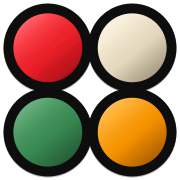
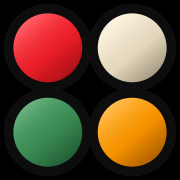
Give every page a matching social preview card, and fill in the missing tags
Only the homepage had og:image:alt and twitter:image; the other seven pages
were missing both, and four of them (dashboard, software, coinkite, contact)
were still pointing at whitepaper.png, a 1200x750 image with no share-card
purpose. guides and exchanges were serving portrait images (1600x2400 and
2400x3600) as 1.91:1 social cards, which center-crop hard -- both were showing
a narrow vertical sliver of themselves. exchanges' image was also a .webp,
which X's scraper has long handled unreliably.

All eight now carry a complete, identical set of og:image / og:image:width /
og:image:height / og:image:alt / twitter:image / twitter:image:alt. devices.html
keeps its own image (signing-device-circuit.jpeg, landscape, crops fine) and
just gained the tags it was missing; the other seven now share one card.

That card: the four-circle mark and "SELF CUSTODY.CA" wordmark, one line,
inside a solid white rounded border, on black -- the same lockup and colours
as the site's own header brand, at card scale. Not a screenshot of the hero:
it needed to work as a small feed thumbnail on its own, at any crop a platform
decides to apply, without depending on the hero's video or the buttons beside
it. PNG master kept on disk, gitignored; the site references the JPEG export.

Changed region(s): [[0.0, 0.0, 1.0, 1.0], [0.3333, 0.3333, 0.6667, 0.6667]]

diff --git a/docs/dashboard.html b/docs/dashboard.html
@@ -13,12 +13,16 @@
   <meta property="og:title" content="Live Bitcoin Dashboard | Self Custody Canada">
   <meta property="og:description" content="Live Bitcoin dashboard: price in CAD and USD, sats per dollar, block height, fee rates, network hashrate, and the Fear &amp; Greed index.">
   <meta property="og:url" content="https://selfcustody.ca/dashboard.html">
-  <meta property="og:image" content="https://selfcustody.ca/assets/img/whitepaper.png">
+  <meta property="og:image" content="https://selfcustody.ca/assets/img/social-preview.jpg">
   <meta property="og:image:width" content="1200">
-  <meta property="og:image:height" content="750">
+  <meta property="og:image:height" content="630">
+  <meta property="og:image:alt" content="Exit fiat, enter Bitcoin — SelfCustody.ca">
   <meta name="twitter:card" content="summary_large_image">
+  <meta name="twitter:image" content="https://selfcustody.ca/assets/img/social-preview.jpg">
+  <meta name="twitter:image:alt" content="Exit fiat, enter Bitcoin — SelfCustody.ca">
   <link rel="icon" type="image/svg+xml" href="assets/img/self-custody-favicon.svg">
   <link rel="icon" href="assets/img/favicon.png">
+  <link rel="apple-touch-icon" href="assets/img/apple-touch-icon.png">
   <link rel="preconnect" href="https://fonts.googleapis.com">
   <link rel="preconnect" href="https://fonts.gstatic.com" crossorigin>
   <link rel="preconnect" href="https://mempool.space" crossorigin>
@@ -31,6 +35,6 @@
 <body class="site-refresh" data-page="dashboard">
   <div id="site-header"></div><main id="main-content"></main><div id="site-footer"></div>
   <noscript><div class="container py-5"><h1>Dashboard</h1><p>Please enable JavaScript to view live Bitcoin network data.</p></div></noscript>
-  <script src="assets/vendor/bootstrap/js/bootstrap.bundle.min.js"></script><script src="assets/js/site-refresh.js?v=20260812-127"></script>
+  <script src="assets/vendor/bootstrap/js/bootstrap.bundle.min.js"></script><script src="assets/js/site-refresh.js?v=20260812-128"></script>
 </body>
 </html>

diff --git a/docs/exchanges.html b/docs/exchanges.html
@@ -13,12 +13,16 @@
   <meta property="og:title" content="Buying Bitcoin in Canada | Exchange & Broker Comparison">
   <meta property="og:description" content="Compare Canadian bitcoin purchase routes by custody model, CAD funding, trading tools, withdrawal workflow, and fit for self-custody.">
   <meta property="og:url" content="https://selfcustody.ca/exchanges.html">
-  <meta property="og:image" content="https://selfcustody.ca/assets/img/hero-keylock.webp">
-  <meta property="og:image:width" content="2400">
-  <meta property="og:image:height" content="3600">
+  <meta property="og:image" content="https://selfcustody.ca/assets/img/social-preview.jpg">
+  <meta property="og:image:width" content="1200">
+  <meta property="og:image:height" content="630">
+  <meta property="og:image:alt" content="Exit fiat, enter Bitcoin — SelfCustody.ca">
   <meta name="twitter:card" content="summary_large_image">
+  <meta name="twitter:image" content="https://selfcustody.ca/assets/img/social-preview.jpg">
+  <meta name="twitter:image:alt" content="Exit fiat, enter Bitcoin — SelfCustody.ca">
   <link rel="icon" type="image/svg+xml" href="assets/img/self-custody-favicon.svg">
   <link rel="icon" href="assets/img/favicon.png">
+  <link rel="apple-touch-icon" href="assets/img/apple-touch-icon.png">
   <link rel="preconnect" href="https://fonts.googleapis.com">
   <link rel="preconnect" href="https://fonts.gstatic.com" crossorigin>
   <link href="https://fonts.googleapis.com/css2?family=Jost:wght@500;600;700&family=Open+Sans:wght@400;600;700&display=swap" rel="stylesheet">

diff --git a/docs/guides.html b/docs/guides.html
@@ -13,12 +13,16 @@
   <meta property="og:title" content="Guides | Self Custody Canada">
   <meta property="og:description" content="A practical, step-by-step learning path for buying bitcoin, setting up a wallet, withdrawing safely, testing recovery, and maintaining self-custody.">
   <meta property="og:url" content="https://selfcustody.ca/guides.html">
-  <meta property="og:image" content="https://selfcustody.ca/assets/img/education-library.jpeg">
-  <meta property="og:image:width" content="1600">
-  <meta property="og:image:height" content="2400">
+  <meta property="og:image" content="https://selfcustody.ca/assets/img/social-preview.jpg">
+  <meta property="og:image:width" content="1200">
+  <meta property="og:image:height" content="630">
+  <meta property="og:image:alt" content="Exit fiat, enter Bitcoin — SelfCustody.ca">
   <meta name="twitter:card" content="summary_large_image">
+  <meta name="twitter:image" content="https://selfcustody.ca/assets/img/social-preview.jpg">
+  <meta name="twitter:image:alt" content="Exit fiat, enter Bitcoin — SelfCustody.ca">
   <link rel="icon" type="image/svg+xml" href="assets/img/self-custody-favicon.svg">
   <link rel="icon" href="assets/img/favicon.png">
+  <link rel="apple-touch-icon" href="assets/img/apple-touch-icon.png">
   <link rel="preconnect" href="https://fonts.googleapis.com">
   <link rel="preconnect" href="https://fonts.gstatic.com" crossorigin>
   <link href="https://fonts.googleapis.com/css2?family=Jost:wght@500;600;700&family=Open+Sans:wght@400;600;700&display=swap" rel="stylesheet">

diff --git a/docs/software.html b/docs/software.html
@@ -13,12 +13,16 @@
   <meta property="og:title" content="Bitcoin Wallet Software | Self Custody Canada">
   <meta property="og:description" content="Compare Sparrow, BlueWallet, Electrum, Nunchuk, and Cove Wallet by platform, hardware support, privacy, and multisig.">
   <meta property="og:url" content="https://selfcustody.ca/software.html">
-  <meta property="og:image" content="https://selfcustody.ca/assets/img/whitepaper.png">
+  <meta property="og:image" content="https://selfcustody.ca/assets/img/social-preview.jpg">
   <meta property="og:image:width" content="1200">
-  <meta property="og:image:height" content="750">
+  <meta property="og:image:height" content="630">
+  <meta property="og:image:alt" content="Exit fiat, enter Bitcoin — SelfCustody.ca">
   <meta name="twitter:card" content="summary_large_image">
+  <meta name="twitter:image" content="https://selfcustody.ca/assets/img/social-preview.jpg">
+  <meta name="twitter:image:alt" content="Exit fiat, enter Bitcoin — SelfCustody.ca">
   <link rel="icon" type="image/svg+xml" href="assets/img/self-custody-favicon.svg">
   <link rel="icon" href="assets/img/favicon.png">
+  <link rel="apple-touch-icon" href="assets/img/apple-touch-icon.png">
   <link rel="preconnect" href="https://fonts.googleapis.com">
   <link rel="preconnect" href="https://fonts.gstatic.com" crossorigin>
   <link href="https://fonts.googleapis.com/css2?family=Jost:wght@500;600;700&family=Open+Sans:wght@400;600;700&display=swap" rel="stylesheet">

diff --git a/docs/coinkite.html b/docs/coinkite.html
@@ -13,12 +13,16 @@
   <meta property="og:title" content="Coinkite Product Guide | Self Custody Canada">
   <meta property="og:description" content="A focused guide to Coinkite products including COLDCARD Q, Mk5, TAPSIGNER, SATSCARD, OPENDIME, and SEEDPLATE.">
   <meta property="og:url" content="https://selfcustody.ca/coinkite.html">
-  <meta property="og:image" content="https://selfcustody.ca/assets/img/whitepaper.png">
+  <meta property="og:image" content="https://selfcustody.ca/assets/img/social-preview.jpg">
   <meta property="og:image:width" content="1200">
-  <meta property="og:image:height" content="750">
+  <meta property="og:image:height" content="630">
+  <meta property="og:image:alt" content="Exit fiat, enter Bitcoin — SelfCustody.ca">
   <meta name="twitter:card" content="summary_large_image">
+  <meta name="twitter:image" content="https://selfcustody.ca/assets/img/social-preview.jpg">
+  <meta name="twitter:image:alt" content="Exit fiat, enter Bitcoin — SelfCustody.ca">
   <link rel="icon" type="image/svg+xml" href="assets/img/self-custody-favicon.svg">
   <link rel="icon" href="assets/img/favicon.png">
+  <link rel="apple-touch-icon" href="assets/img/apple-touch-icon.png">
   <link rel="preconnect" href="https://fonts.googleapis.com">
   <link rel="preconnect" href="https://fonts.gstatic.com" crossorigin>
   <link href="https://fonts.googleapis.com/css2?family=Jost:wght@500;600;700&family=Open+Sans:wght@400;600;700&display=swap" rel="stylesheet">

diff --git a/docs/contact.html b/docs/contact.html
@@ -13,12 +13,16 @@
   <meta property="og:title" content="Coming Soon | Self Custody Canada">
   <meta property="og:description" content="Self Custody Canada's contact and setup-support page is coming soon.">
   <meta property="og:url" content="https://selfcustody.ca/contact.html">
-  <meta property="og:image" content="https://selfcustody.ca/assets/img/whitepaper.png">
+  <meta property="og:image" content="https://selfcustody.ca/assets/img/social-preview.jpg">
   <meta property="og:image:width" content="1200">
-  <meta property="og:image:height" content="750">
+  <meta property="og:image:height" content="630">
+  <meta property="og:image:alt" content="Exit fiat, enter Bitcoin — SelfCustody.ca">
   <meta name="twitter:card" content="summary_large_image">
+  <meta name="twitter:image" content="https://selfcustody.ca/assets/img/social-preview.jpg">
+  <meta name="twitter:image:alt" content="Exit fiat, enter Bitcoin — SelfCustody.ca">
   <link rel="icon" type="image/svg+xml" href="assets/img/self-custody-favicon.svg">
   <link rel="icon" href="assets/img/favicon.png">
+  <link rel="apple-touch-icon" href="assets/img/apple-touch-icon.png">
   <link rel="preconnect" href="https://fonts.googleapis.com">
   <link rel="preconnect" href="https://fonts.gstatic.com" crossorigin>
   <link href="https://fonts.googleapis.com/css2?family=Caveat:wght@500;600&family=Jost:wght@500;600;700&family=Open+Sans:wght@400;600;700&display=swap" rel="stylesheet">

diff --git a/docs/index.html b/docs/index.html
@@ -13,10 +13,13 @@
   <meta property="og:title" content="Self Custody Canada | Practical Bitcoin Self-Custody">
   <meta property="og:description" content="Clear, practical guidance for learning how to buy bitcoin, choose a wallet, protect recovery material, and withdraw to self custody.">
   <meta property="og:url" content="https://selfcustody.ca/">
-  <meta property="og:image" content="https://selfcustody.ca/assets/img/whitepaper.png">
+  <meta property="og:image" content="https://selfcustody.ca/assets/img/social-preview.jpg">
   <meta property="og:image:width" content="1200">
-  <meta property="og:image:height" content="750">
+  <meta property="og:image:height" content="630">
+  <meta property="og:image:alt" content="Exit fiat, enter Bitcoin — SelfCustody.ca">
   <meta name="twitter:card" content="summary_large_image">
+  <meta name="twitter:image" content="https://selfcustody.ca/assets/img/social-preview.jpg">
+  <meta name="twitter:image:alt" content="Exit fiat, enter Bitcoin — SelfCustody.ca">
   <link rel="icon" type="image/svg+xml" href="assets/img/self-custody-favicon.svg">
   <link rel="icon" href="assets/img/favicon.png">
   <link rel="apple-touch-icon" href="assets/img/apple-touch-icon.png">

diff --git a/docs/devices.html b/docs/devices.html
@@ -16,9 +16,13 @@
   <meta property="og:image" content="https://selfcustody.ca/assets/img/signing-device-circuit.jpeg">
   <meta property="og:image:width" content="2268">
   <meta property="og:image:height" content="1500">
+  <meta property="og:image:alt" content="A hardware signing device circuit board, close up">
   <meta name="twitter:card" content="summary_large_image">
+  <meta name="twitter:image" content="https://selfcustody.ca/assets/img/signing-device-circuit.jpeg">
+  <meta name="twitter:image:alt" content="A hardware signing device circuit board, close up">
   <link rel="icon" type="image/svg+xml" href="assets/img/self-custody-favicon.svg">
   <link rel="icon" href="assets/img/favicon.png">
+  <link rel="apple-touch-icon" href="assets/img/apple-touch-icon.png">
   <link rel="preconnect" href="https://fonts.googleapis.com">
   <link rel="preconnect" href="https://fonts.gstatic.com" crossorigin>
   <link href="https://fonts.googleapis.com/css2?family=Jost:wght@500;600;700&family=Open+Sans:wght@400;600;700&display=swap" rel="stylesheet">
